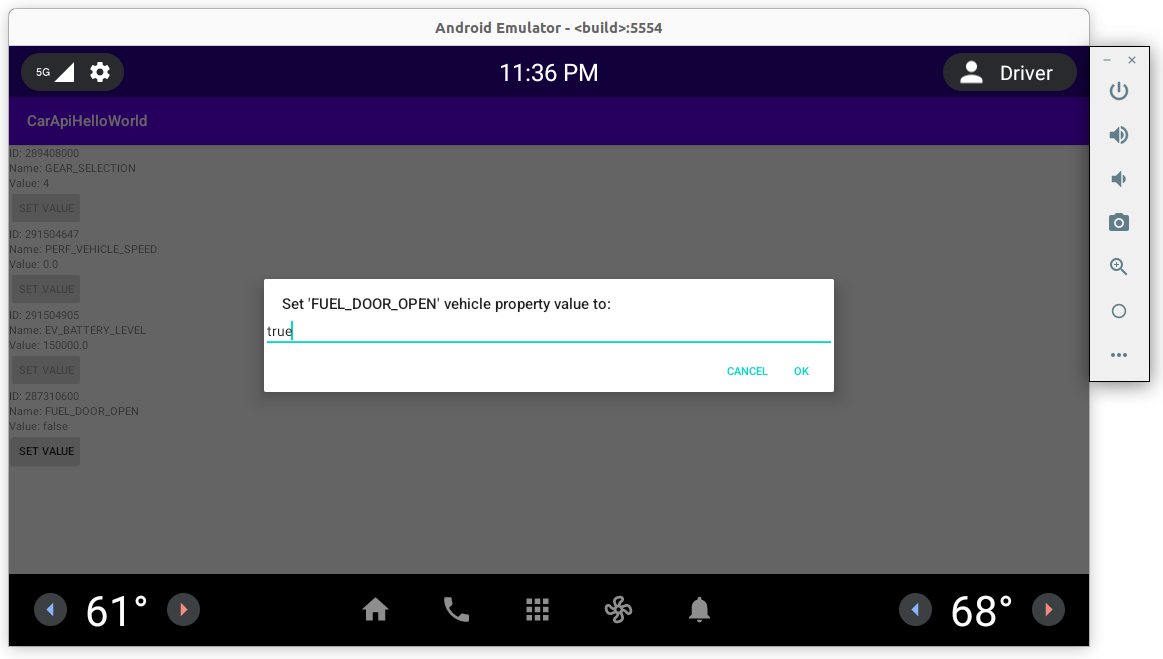
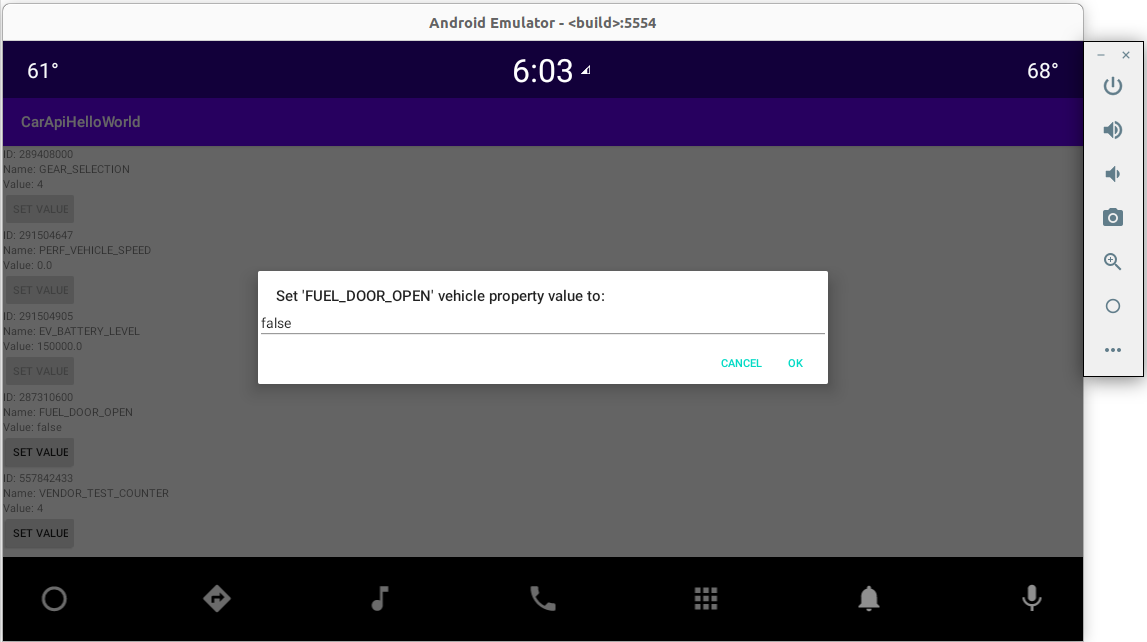
Add vendor property support

diff --git a/app/src/main/java/com/example/carapihelloworld/MainActivity.java b/app/src/main/java/com/example/carapihelloworld/MainActivity.java
@@ -20,10 +20,14 @@ public class MainActivity extends AppCompatActivity {
     private static final String TAG = "CarApiHelloWorld";
     private static final int REQUEST_CODE_ASK_PERMISSIONS = 1;
 
+    // from out/soong/.intermediates/vendor/nkh-lab/interfaces/vehicle/1.0/vendor.nlab.vehicle-V1.0-java_gen_java/gen/srcs/vendor/nlab/vehicle/V1_0/VehicleProperty.java
+    private static final int VENDOR_TEST_COUNTER = 557842433 /* (0x0001 | VehiclePropertyGroup:VENDOR | VehiclePropertyType:INT32 | VehicleArea:GLOBAL) */;
+
     VehiclePropertyView mGearPropertyView;
     VehiclePropertyView mSpeedPropertyView;
     VehiclePropertyView mBatteryLevelPropertyView;
     VehiclePropertyView mFuelDoorOpenPropertyView;
+    VehiclePropertyView mVendorTestCounterPropertyView;
 
     private CarPropertyManager mCarPropertyManager;
 
@@ -35,8 +39,7 @@ public class MainActivity extends AppCompatActivity {
         List<String> dangPermToRequest = checkDangerousPermissions();
 
         if (dangPermToRequest.isEmpty()) {
-            initCarPropertyManager();
-            initGUI();
+            main();
         } else {
             requestDangerousPermissions(dangPermToRequest);
             // CB:
@@ -48,10 +51,17 @@ public class MainActivity extends AppCompatActivity {
         if (requestCode == REQUEST_CODE_ASK_PERMISSIONS) {
             //all permissions have been granted
             if (!Arrays.asList(grantResults).contains(PackageManager.PERMISSION_DENIED)) {
-                initCarPropertyManager();
-                initGUI();
+                main();
             }
         }
+    }
+
+    private void main() {
+        initCarPropertyManager();
+        initGUI();
+
+        testGetProperties();
+        registerCarPropertyManagerCBs();
     }
 
     @NonNull
@@ -93,7 +103,7 @@ public class MainActivity extends AppCompatActivity {
                 .enableSetValue(new VehiclePropertyView.SetValueCB() {
                     @Override
                     public void onSetValue(String value_to_set) {
-                        Log.d(TAG, "onEdit(" + value_to_set + ")");
+                        Log.d(TAG, "FUEL_DOOR_OPEN: onEdit(" + value_to_set + ")");
 
                         try {
                             mCarPropertyManager.setBooleanProperty(VehiclePropertyIds.FUEL_DOOR_OPEN, 0, Boolean.parseBoolean(value_to_set));
@@ -102,14 +112,38 @@ public class MainActivity extends AppCompatActivity {
                         }
                     }
                 });
+
+        mVendorTestCounterPropertyView = findViewById(R.id.vendor_test_counter_property_view);
+        mVendorTestCounterPropertyView.setPropId(VENDOR_TEST_COUNTER)
+                .setPropName("VENDOR_TEST_COUNTER")
+                .enableSetValue(new VehiclePropertyView.SetValueCB() {
+                    @Override
+                    public void onSetValue(String value_to_set) {
+                        Log.d(TAG, "VENDOR_TEST_COUNTER: onEdit(" + value_to_set + ")");
+
+                        try {
+                            mCarPropertyManager.setIntProperty(VENDOR_TEST_COUNTER, 0, Integer.parseInt(value_to_set));
+                        } catch (SecurityException | IllegalArgumentException e) {
+                            Log.e(TAG, "VENDOR_TEST_COUNTER: setIntProperty(), Exception: " + e.getMessage());
+                        }
+                    }
+                });
     }
 
     private void initCarPropertyManager() {
         mCarPropertyManager = (CarPropertyManager) Car.createCar(this).getCarManager(Car.PROPERTY_SERVICE);
+    }
 
+    private void testGetProperties() {
         Log.d(TAG, "Test CarPropertyManager getters:");
-        Log.d(TAG, "GEAR_SELECTION: getIntProperty(" + mCarPropertyManager.getIntProperty(VehiclePropertyIds.GEAR_SELECTION, 0) + ")");
+        int gearSelection = mCarPropertyManager.getIntProperty(VehiclePropertyIds.GEAR_SELECTION, 0);
+        Log.d(TAG, "GEAR_SELECTION: getIntProperty(" + VehiclePropertyIds.GEAR_SELECTION + ", 0)=" + gearSelection);
 
+        int vendorTestCounter = mCarPropertyManager.getIntProperty(VENDOR_TEST_COUNTER, 0);
+        Log.d(TAG, "VENDOR_TEST_COUNTER: getIntProperty(" + VENDOR_TEST_COUNTER + ", 0)=" + vendorTestCounter);
+    }
+
+    private void registerCarPropertyManagerCBs() {
         Log.d(TAG, "Test CarPropertyManager callbacks:");
         mCarPropertyManager.registerCallback(new CarPropertyManager.CarPropertyEventCallback() {
             @Override
@@ -162,5 +196,18 @@ public class MainActivity extends AppCompatActivity {
                 Log.d(TAG, "FUEL_DOOR_OPEN: onErrorEvent(" + propId + ", " + zone + ")");
             }
         }, VehiclePropertyIds.FUEL_DOOR_OPEN, CarPropertyManager.SENSOR_RATE_ONCHANGE);
+
+        mCarPropertyManager.registerCallback(new CarPropertyManager.CarPropertyEventCallback() {
+            @Override
+            public void onChangeEvent(CarPropertyValue carPropertyValue) {
+                Log.d(TAG, "VENDOR_TEST_COUNTER: onChangeEvent(" + carPropertyValue.getValue() + ")");
+                mVendorTestCounterPropertyView.setPropValue(String.valueOf(carPropertyValue.getValue()));
+            }
+
+            @Override
+            public void onErrorEvent(int propId, int zone) {
+                Log.d(TAG, "VENDOR_TEST_COUNTER: onErrorEvent(" + propId + ", " + zone + ")");
+            }
+        }, VENDOR_TEST_COUNTER, CarPropertyManager.SENSOR_RATE_ONCHANGE);
     }
 }

diff --git a/README.md b/README.md
@@ -1,7 +1,7 @@
 # car-api-hello-world
 Android automotive CAR API usage example.
 
-Example based on `android.car.hardware.CarPropertyManager` usage for obtaining speed, gear and other properties which are belonged for all possible permission protection levels:
+The example is based on the use of `android.car.hardware.CarPropertyManager` and shows how to work with `SYSTEM` (speed, transfer, etc.) and `VENDOR` custom properties that belong to all possible permission protection levels:
 - normal
 - dangerous
 - signature|privileged
@@ -29,55 +29,35 @@ To use the CAR API, the following steps were taken:
 Tested on emulators:
 - `Polestar2` ([Useful link of how to set up `Polestar2` on Android Studio](https://stackoverflow.com/questions/57968790/android-automotive-emulator-no-system-images-installed-for-this-target/58159715#58159715))
 - AOSP `aosp_car_x86-userdebug` (android-12.0.0_r3)
+- [NCAR - Android Automotive Emulator Project](https://github.com/nkh-lab/aosp-ncar-manifest) - is used for testing `VENDOR` properties
 
 To change car speed, gear, location, etc. use `AVD Extended Controls`:
 
 ![](doc/screenshots/ExtendedControls-CarData.png)
 
-
-## AOSP
+## How to run on AOSP
 Start `CarApiHelloWorldApp` app via ADB ActivityManager:
 ```
 $ am start -n com.example.carapihelloworld/.MainActivity
 ```
 
 ## Logcat expected output
-After compiling and running this project, the following `logcat` messages are expected.
-
-1. Not signed app
-
-`Polstar2` emulator:
+After compiling and running this project, the following `logcat` messages are expected:
 ```
-2021-11-01 03:16:36.826 26840-26840/com.example.carapihelloworld D/CarApiHelloWorld: Test CarPropertyManager getters:
-2021-11-01 03:16:36.827 26840-26840/com.example.carapihelloworld D/CarApiHelloWorld: GEAR_SELECTION: getIntProperty(1)
-2021-11-01 03:16:36.827 26840-26840/com.example.carapihelloworld D/CarApiHelloWorld: Test CarPropertyManager callbacks:
-2021-11-01 03:16:36.840 26840-26840/com.example.carapihelloworld D/CarApiHelloWorld: GEAR_SELECTION: onChangeEvent(1)
-2021-11-01 03:16:36.840 26840-26840/com.example.carapihelloworld D/CarApiHelloWorld: PERF_VEHICLE_SPEED: onChangeEvent(0.0)
-2021-11-01 03:16:36.840 26840-26840/com.example.carapihelloworld D/CarApiHelloWorld: EV_BATTERY_LEVEL: onChangeEvent(150000.0)
-2021-11-01 03:16:36.840 26840-26840/com.example.carapihelloworld D/CarApiHelloWorld: FUEL_DOOR_OPEN: onChangeEvent(false)
+2022-02-14 17:29:18.154 4979-4979/com.example.carapihelloworld D/CarApiHelloWorld: Test CarPropertyManager getters:
+2022-02-14 17:29:18.155 4979-4979/com.example.carapihelloworld D/CarApiHelloWorld: GEAR_SELECTION: getIntProperty(289408000, 0)=4
+2022-02-14 17:29:18.156 4979-4979/com.example.carapihelloworld D/CarApiHelloWorld: VENDOR_TEST_COUNTER: getIntProperty(557842433, 0)=4
+2022-02-14 17:29:18.156 4979-4979/com.example.carapihelloworld D/CarApiHelloWorld: Test CarPropertyManager callbacks:
+2022-02-14 17:29:18.282 4979-4979/com.example.carapihelloworld D/CarApiHelloWorld: GEAR_SELECTION: onChangeEvent(4)
+2022-02-14 17:29:18.282 4979-4979/com.example.carapihelloworld D/CarApiHelloWorld: PERF_VEHICLE_SPEED: onChangeEvent(0.0)
+2022-02-14 17:29:18.282 4979-4979/com.example.carapihelloworld D/CarApiHelloWorld: EV_BATTERY_LEVEL: onChangeEvent(150000.0)
+2022-02-14 17:29:18.283 4979-4979/com.example.carapihelloworld D/CarApiHelloWorld: FUEL_DOOR_OPEN: onChangeEvent(false)
+2022-02-14 17:29:18.283 4979-4979/com.example.carapihelloworld D/CarApiHelloWorld: VENDOR_TEST_COUNTER: onChangeEvent(4)
+```
+Permission errors examples:
+```
 2021-11-01 03:16:36.840 26840-26840/com.example.carapihelloworld E/CarApiHelloWorld: FUEL_DOOR_OPEN: setBooleanProperty(), Exception: permission is null
 ```
-AOSP `aosp_car_x86-userdebug` emulator:
 ```
-2021-11-02 13:13:55.258 2642-2642/com.example.carapihelloworld D/CarApiHelloWorld: Test CarPropertyManager getters:
-2021-11-02 13:13:55.266 2642-2642/com.example.carapihelloworld D/CarApiHelloWorld: GEAR_SELECTION: getIntProperty(4)
-2021-11-02 13:13:55.266 2642-2642/com.example.carapihelloworld D/CarApiHelloWorld: Test CarPropertyManager callbacks:
-2021-11-02 13:13:55.274 2642-2642/com.example.carapihelloworld D/CarApiHelloWorld: GEAR_SELECTION: onChangeEvent(4)
-2021-11-02 13:13:55.290 2642-2642/com.example.carapihelloworld D/CarApiHelloWorld: PERF_VEHICLE_SPEED: onChangeEvent(0.0)
-2021-11-02 13:13:55.290 2642-2642/com.example.carapihelloworld D/CarApiHelloWorld: EV_BATTERY_LEVEL: onChangeEvent(150000.0)
-2021-11-02 13:13:55.290 2642-2642/com.example.carapihelloworld D/CarApiHelloWorld: FUEL_DOOR_OPEN: onChangeEvent(false)
 2021-11-02 13:13:55.293 2642-2642/com.example.carapihelloworld E/CarApiHelloWorld: FUEL_DOOR_OPEN: setBooleanProperty(), Exception: requires android.car.permission.CONTROL_CAR_ENERGY_PORTS
-```
-2. Signed app
-
-AOSP `aosp_car_x86-userdebug` emulator:
-```
-11-01 16:12:26.157  3587  3587 D CarApiHelloWorld: Test CarPropertyManager getters:
-11-01 16:12:26.162  3587  3587 D CarApiHelloWorld: GEAR_SELECTION: getIntProperty(4)
-11-01 16:12:26.162  3587  3587 D CarApiHelloWorld: Test CarPropertyManager callbacks:
-11-01 16:12:26.172  3587  3587 D CarApiHelloWorld: GEAR_SELECTION: onChangeEvent(4)
-11-01 16:12:26.172  3587  3587 D CarApiHelloWorld: PERF_VEHICLE_SPEED: onChangeEvent(0.0)
-11-01 16:12:26.172  3587  3587 D CarApiHelloWorld: EV_BATTERY_LEVEL: onChangeEvent(150000.0)
-11-01 16:12:26.177  3587  3587 D CarApiHelloWorld: FUEL_DOOR_OPEN: onChangeEvent(false)
-11-01 16:12:26.197  3587  3587 D CarApiHelloWorld: FUEL_DOOR_OPEN: onChangeEvent(true)
 ```
